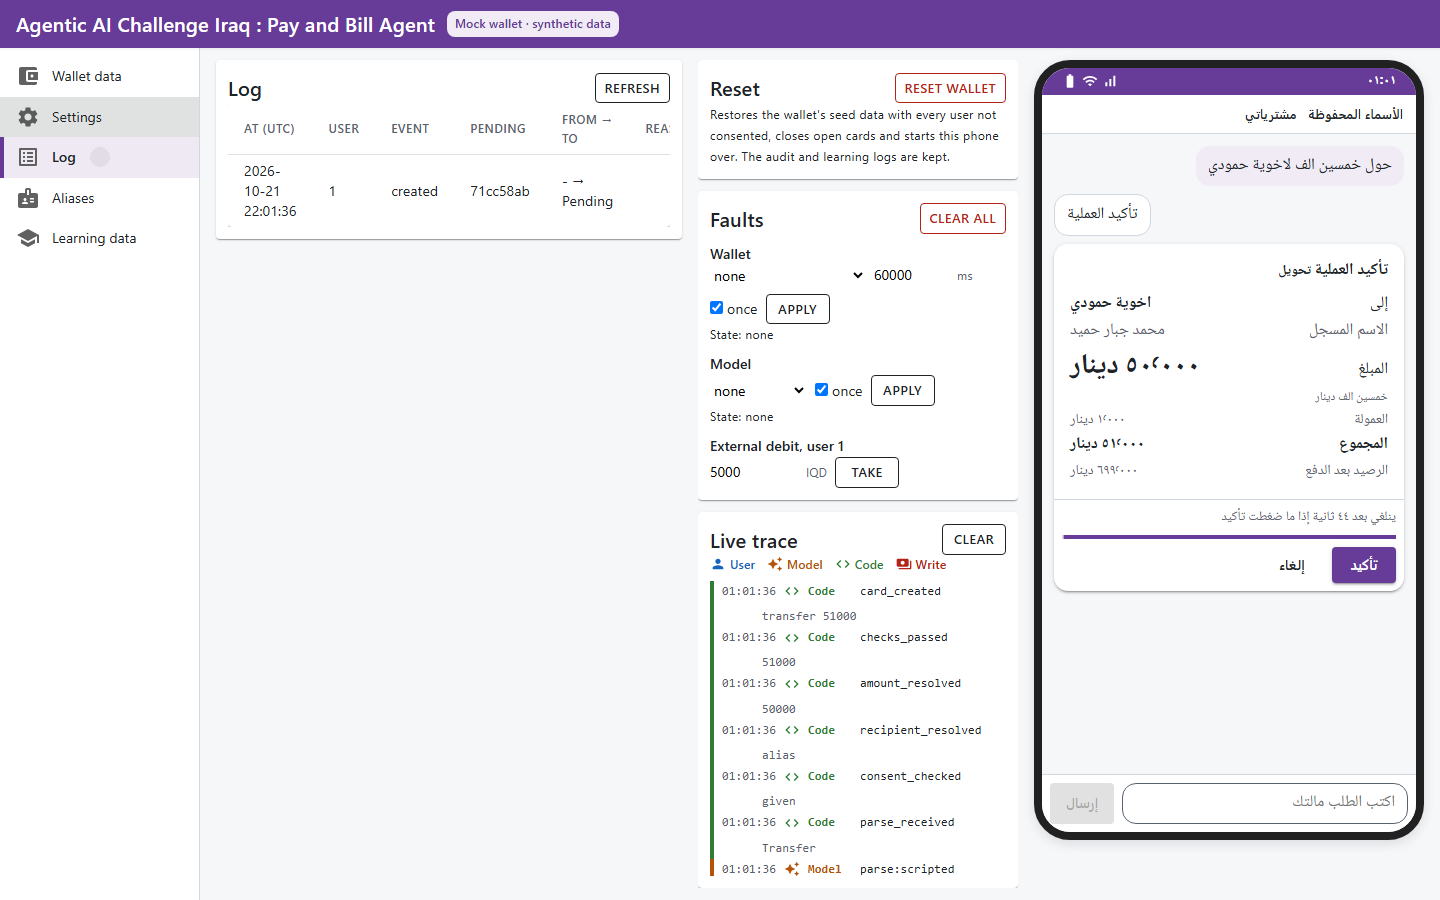
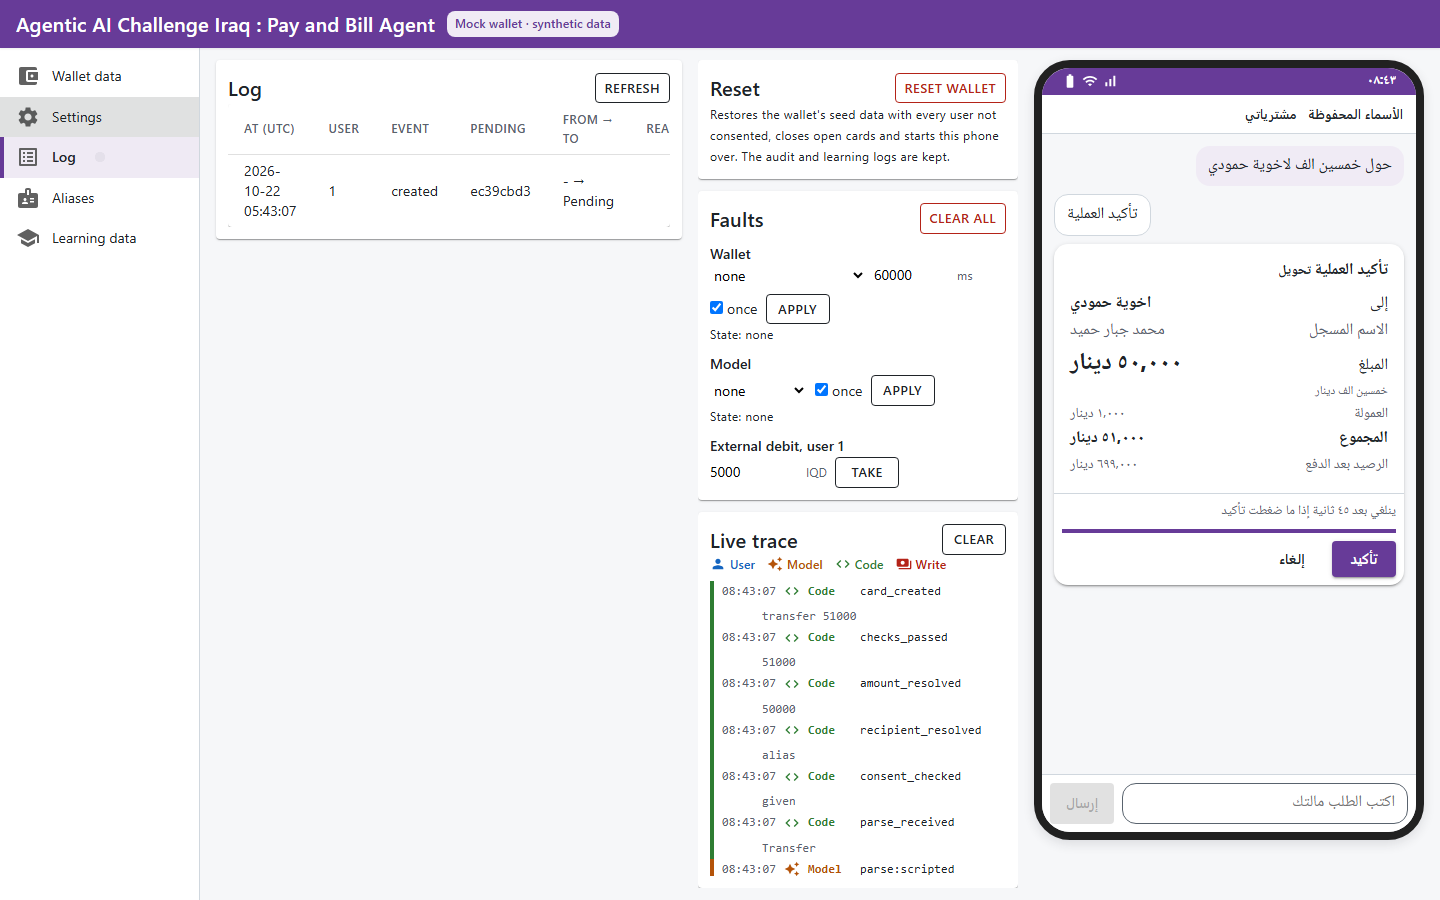
fix(web): Khalil's review of the UI pass, 22 Oct 2026: the phone's thousands separator is the comma that hangs down (U+002C) in place of the raised ARABIC THOUSANDS SEPARATOR (U+066C), PhoneFormat.ThousandsSeparator and Number, with D20's example and agent-web.md updated and the test ANumberHasArabi

diff --git a/src/Agent.Web/wwwroot/app.css b/src/Agent.Web/wwwroot/app.css
@@ -50,7 +50,7 @@
     --text-md: 14px;
     --text-lg: 16px;
     --text-xl: 20px;
-    --text-2xl: 28px;
+    --text-2xl: 24px;
     --font-console: system-ui, "Segoe UI", Roboto, Helvetica, Arial, sans-serif;
     --font-phone: "Noto Naskh Arabic", "Segoe UI", Tahoma, sans-serif;
     --font-mono: Consolas, "Cascadia Mono", monospace;

diff --git a/src/Agent.Web/Services/PhoneFormat.cs b/src/Agent.Web/Services/PhoneFormat.cs
@@ -8,17 +8,18 @@ using Microsoft.Extensions.Localization;
 namespace Agent.Web.Services;
 
 /// <summary>
-/// Figures inside the phone frame (D20): Arabic-Indic digits, the Arabic thousands separator (U+066C), and the currency
+/// Figures inside the phone frame (D20): Arabic-Indic digits, a comma between the thousands (Khalil, 22 Oct 2026: the
+/// comma that hangs down, not the raised ARABIC THOUSANDS SEPARATOR U+066C the phone showed before), and the currency
 /// word from the resource file. The console outside the phone uses ASCII digits (<c>N0</c>, invariant).
 /// </summary>
 public static class PhoneFormat
 {
-    /// <summary>ARABIC THOUSANDS SEPARATOR.</summary>
-    public const char ThousandsSeparator = (char)0x066C;
+    /// <summary>The thousands separator inside the phone: the comma (U+002C), which hangs down.</summary>
+    public const char ThousandsSeparator = ',';
 
-    /// <summary>A whole number with Arabic-Indic digits and the Arabic thousands separator, no currency.</summary>
+    /// <summary>A whole number with Arabic-Indic digits and a comma between the thousands, no currency.</summary>
     public static string Number(long value)
-        => ArabicDigits.ToArabicIndic(value.ToString("N0", CultureInfo.InvariantCulture).Replace(',', ThousandsSeparator));
+        => ArabicDigits.ToArabicIndic(value.ToString("N0", CultureInfo.InvariantCulture));
 
     /// <summary>An amount in dinars: <see cref="Number"/> and the currency word (<c>Currency_iqd</c>).</summary>
     public static string Amount(long amountIqd, IStringLocalizer<PhoneStrings> text)

diff --git a/tests/Agent.Web.Journeys/Screenshots.cs b/tests/Agent.Web.Journeys/Screenshots.cs
@@ -52,6 +52,9 @@ public sealed class Screenshots(JourneyHost host) : IAsyncLifetime
         var page = await context!.NewPageAsync();
         await page.GotoAsync(host.WebAddress.ToString());
         await Expect(page.GetByTestId("phone-frame")).ToHaveAttributeAsync("data-interactive", "true");
+        // The wallet panel shows skeleton rows until its first load; the at-rest shot waits for the balance and a history row.
+        await Expect(page.GetByTestId("wallet-balance")).ToBeVisibleAsync();
+        await Expect(page.Locator("[data-testid=wallet-history-row]").First).ToBeVisibleAsync();
         await page.ScreenshotAsync(new PageScreenshotOptions { Path = At("console-at-rest.png"), FullPage = true });
 
         var input = page.GetByTestId("phone-input");

diff --git a/tests/Agent.Core.Tests/Web/PhoneFormatTests.cs b/tests/Agent.Core.Tests/Web/PhoneFormatTests.cs
@@ -9,6 +9,17 @@ namespace Agent.Core.Tests.Web;
 public class PhoneFormatTests
 {
     [Fact]
+    public void ANumberHasArabicIndicDigitsAndACommaBetweenTheThousands()
+    {
+        // Khalil, 22 Oct 2026: the comma that hangs down (U+002C), not the raised ARABIC THOUSANDS SEPARATOR (U+066C).
+        var number = PhoneFormat.Number(1_250_000);
+
+        Assert.Equal(ArabicDigits.ToArabicIndic("1,250,000"), number);
+        Assert.DoesNotContain('٬', number);
+        Assert.Equal(',', PhoneFormat.ThousandsSeparator);
+    }
+
+    [Fact]
     public void ADateIsShownAsTheIraqDateInArabicIndicDigits()
     {
         // 23:30 UTC is 02:30 the next day in Iraq (UTC+3).

diff --git a/docs/architecture.md b/docs/architecture.md
@@ -39,7 +39,7 @@ These come straight from the submission, so the architecture treats them as rule
 | D17 | **The page.** A phone frame on the right with the working chat. Beside it, separate components for wallet data, settings (limits and fault switch), the log, and learning data. A results component is optional, pending the organisers' guidance. **Layout B chosen:** a side menu, the selected component in the middle, and a live trace of the current request always visible next to the phone. Proposed for the UI/UX pass: the fault switch always at hand, and a count on Learning data in the menu. Built on a CSS grid with named areas, 21 Oct 2026. Layout canvas: <https://claude.ai/artifact/Mt1nfsHywss8aZSt1bbA16>. Earlier clickable mock: <https://claude.ai/artifact/GbN1NJnc9NhDmxdbz5mzBA> | One screen serves development, hand testing and the judges' live run. |
 | D18 | **Stack: .NET 10, Blazor Server with MudBlazor, SQL Server through EF Core.** | Khalil's daily stack, so build time goes into the agent and not into tooling. |
 | D19 | **Try again and Send again.** A card that expired, was cancelled or definitely failed shows "Try again". A completed payment shows "Send again", and the new card carries a line saying the same amount was just sent to this person. Both rebuild a card from the stored request in code, without the model: new pending ID, new idempotency key, new timer, fresh checks. Nothing moves until Confirm. Never offered while a payment is "checking". Only on the most recent card, and disabled while another card is live. | No retyping after a missed timer, and a deliberate repeat costs two taps. The wording tells the user whether money moved. |
-| D20 | **Language.** Everything inside the phone frame is Iraqi Arabic, written by Khalil, with Arabic-Indic digits (٢, ٥٠٬٠٠٠). Typed input is accepted in either digit form. The rest of the page (grids, settings, log, learning data) is English. Phone strings live in one resource file. | The brief makes Iraqi Arabic the default for users. The console is for developers and judges. |
+| D20 | **Language.** Everything inside the phone frame is Iraqi Arabic, written by Khalil, with Arabic-Indic digits and a comma between the thousands (٢, ٥٠,٠٠٠; the comma from 22 Oct 2026, Khalil, in place of the raised U+066C). Typed input is accepted in either digit form. The rest of the page (grids, settings, log, learning data) is English. Phone strings live in one resource file. | The brief makes Iraqi Arabic the default for users. The console is for developers and judges. |
 | D21 | **No QR scanning and no account-number entry.** A recipient is a saved contact, an alias, or a typed phone number. To reach someone new, the user types their phone number, or saves an alias for them and then asks for the transfer. Scanning stays with the QR feature the wallet apps already have. | Both are separate ways in, outside one sentence and one tap, and a phone number is what people hand over at the shop counter. This narrows slide 1, which listed numbers and QR in scope; slide 2 already had both on the cut list. |
 | D22 | **The balance question is the fourth request type.** "شكد رصيدي" and similar. The model only recognises the question. Code reads the balance and fills a template. No card and no tap, because no money moves. Own balance only, and only after the first-use consent. The model never sees the number. | People ask what they have before they send or pay. It is read only, so the tap rule is untouched, and the figure goes from the wallet to the screen without passing through the model. |
 

diff --git a/docs/plans/ui-pass.md b/docs/plans/ui-pass.md
@@ -20,7 +20,7 @@
 | 8 | The timer on Confirm | Saw the mock of three placements (<https://claude.ai/artifact/Juf6qEHp6LdoVXCbQdvGMA>) and chose option B, "timer in the action block" | Task 7: the countdown sentence and its bar move into the card's action block, directly above Confirm and Cancel, under a rule that closes the fields |
 | 9 | Light only | "Keep the light theme, no need for the dark theme yet" | Task 1 as written |
 
-**Parked by Khalil, 21 Oct 2026:** the amount's format on the card and the thousands separator (`PhoneFormat.Number`, the Arabic thousands separator U+066C) may be rethought later. This pass changes neither; the mock showed them as the code renders them today.
+**Parked by Khalil, 21 Oct 2026:** the amount's format on the card and the thousands separator (`PhoneFormat.Number`, the Arabic thousands separator U+066C) may be rethought later. This pass changes neither; the mock showed them as the code renders them today. **Decided at his review, 22 Oct 2026:** the separator becomes the comma that hangs down (U+002C) in place of the raised U+066C, and the card's amount drops from 28 px to 24 px (`--text-2xl`); the amount's format is otherwise unchanged.
 
 **Question 2, elaborated.** One number, `Console:GridPageSize`, says how many rows every console grid shows on one page: contacts, bills, history, log, aliases, and later the learning data. It lives in the console's own `Console` section of `appsettings.json` (next to `WalletAdminKey`), default 10, allowed 5 to 100. It is not an agent setting: nothing in `Agent.Core` reads it, so it never changes a check, a card or a reply. It appears in the settings component under a "Console" heading with its description, unit and range like the agent's limits (task 6), and can be changed there while the console runs (task 4c), the change applying at the next render and forgotten at restart, exactly as the agent's limits behave. Two existing settings stay separate and are described as such: `LogPageSize` (100) is how many of the newest audit rows the log loads from the database, and `HistoryPageSize` (200) is how many history rows the agent, and now the wallet panel, read from the wallet in one call; the grid page size splits whatever was loaded into pages. The default must stay 10 or more because three journeys count every row of U1's alias and order lists against the wallet; U1 has 4 aliases and at most 10 orders after a purchase, so a first page of 10 holds them all. Below 10 those journeys would need to page before counting.
 
@@ -133,7 +133,7 @@ No zone is purple; each is paired with a Material icon and its label, so the zon
 | Token | Value | Role |
 |---|---|---|
 | `--space-1` to `--space-8` | 4, 8, 12, 16, 20, 24, 32, 40 px | The only spacing values used in our CSS |
-| `--text-xs`, `--text-sm`, `--text-md`, `--text-lg`, `--text-xl`, `--text-2xl` | 12, 13, 14, 16, 20, 28 px | Trace and captions; table cells; body; phone body; panel titles; the card's amount |
+| `--text-xs`, `--text-sm`, `--text-md`, `--text-lg`, `--text-xl`, `--text-2xl` | 12, 13, 14, 16, 20, 28 px | Trace and captions; table cells; body; phone body; panel titles; the card's amount (28 px lowered to 24 px on 22 Oct 2026 at Khalil's review) |
 | `--font-console` | `system-ui, "Segoe UI", Roboto, Helvetica, Arial, sans-serif` | Everything outside the phone (also MudBlazor's typography) |
 | `--font-phone` | `"Noto Naskh Arabic", "Segoe UI", Tahoma, sans-serif` | Inside the phone; the first font self-hosted (decision 5) |
 | `--font-mono` | `Consolas, "Cascadia Mono", monospace` | The trace |

diff --git a/docs/agent-web.md b/docs/agent-web.md
@@ -141,7 +141,7 @@ No zone is purple; each is paired with a Material icon and its label, so the zon
 | Token | Value | Role |
 |---|---|---|
 | `--space-1` to `--space-8` | 4, 8, 12, 16, 20, 24, 32, 40 px | The only spacing values used in our CSS |
-| `--text-xs`, `--text-sm`, `--text-md`, `--text-lg`, `--text-xl`, `--text-2xl` | 12, 13, 14, 16, 20, 28 px | Trace and captions; table cells; body; phone body; panel titles; the card's amount |
+| `--text-xs`, `--text-sm`, `--text-md`, `--text-lg`, `--text-xl`, `--text-2xl` | 12, 13, 14, 16, 20, 24 px | Trace and captions; table cells; body; phone body; panel titles; the card's amount (24 px from 22 Oct 2026, Khalil: a little smaller than the 28 px of task 7) |
 | `--font-console` | `system-ui, "Segoe UI", Roboto, Helvetica, Arial, sans-serif` | Everything outside the phone (also MudBlazor's typography) |
 | `--font-phone` | `"Noto Naskh Arabic", "Segoe UI", Tahoma, sans-serif` | Inside the phone; the first font self-hosted (decision 5) |
 | `--font-mono` | `Consolas, "Cascadia Mono", monospace` | The trace |
@@ -413,7 +413,7 @@ The first-time note (`card-first-time`) and the repeat warning (`card-warning`) 
 
 `PhoneFormat` (`Services/PhoneFormat.cs`):
 
-- `Number(long)`: Arabic-Indic digits with U+066C (ARABIC THOUSANDS SEPARATOR).
+- `Number(long)`: Arabic-Indic digits with a comma (U+002C) between the thousands (Khalil, 22 Oct 2026: the comma that hangs down, in place of the raised ARABIC THOUSANDS SEPARATOR U+066C). `PhoneFormatTests.ANumberHasArabicIndicDigitsAndACommaBetweenTheThousands`.
 - `Amount(long, IStringLocalizer<PhoneStrings>)`: `Number` plus `Currency_iqd`.
 - `Digits(string)`: references, codes and phones with Arabic-Indic digits.
 - `Time(DateTimeOffset)`: the Iraq time, `HH:mm`, with Arabic-Indic digits (UI pass task 7, the status bar). 23:05 UTC is 02:05.
